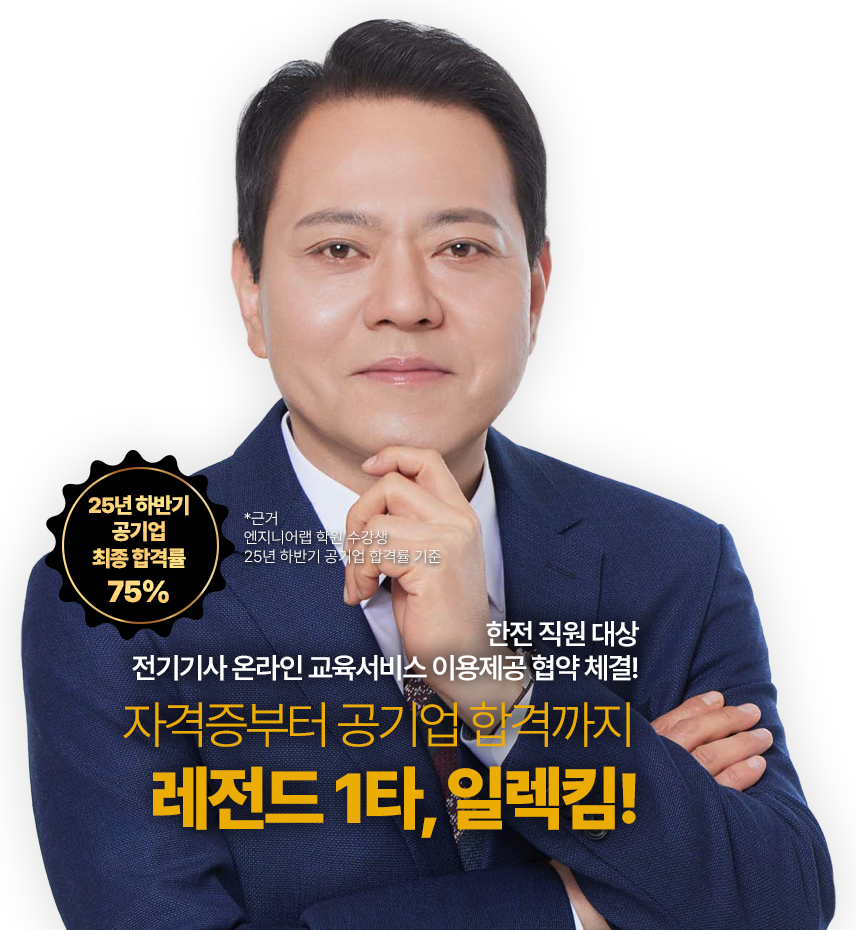
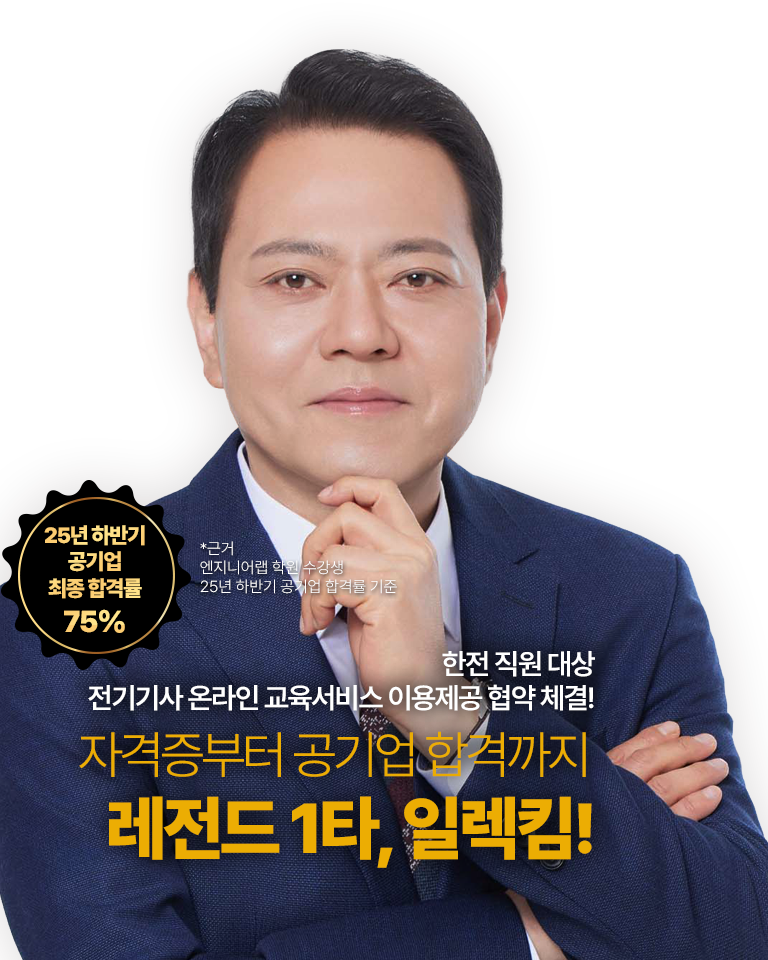
김상훈 교수 사진 크롭 여유 추가 (머리 위 여백 확보)
세로로 너무 타이트하게 잘려있다는 피드백 반영. 전체 높이(960px)를
그대로 활용해 머리 위 여백을 확보하고, 가로폭도 다른 교수님 사진과
비슷한 비율(0.8)로 조정.

diff --git a/professor-kim.html b/professor-kim.html
@@ -181,7 +181,7 @@ a { color: inherit; }
       </ul>
       <div class="prof-coupon-banner"><i class="ti ti-gift"></i> 파트너스 코드 <strong>e4941</strong> 입력 시 총 <strong>6만원</strong> 할인</div>
     </div>
-    <img class="prof-card-photo" src="img/prof-kim.png" alt="김상훈 교수" width="856" height="930">
+    <img class="prof-card-photo" src="img/prof-kim.png" alt="김상훈 교수" width="768" height="960">
     <div class="prof-card-btns">
       <a href="https://www.engineerlab.co.kr/ee/professor/professor_info_new.php?p_id=31" target="_blank" rel="noopener" class="prof-homebtn">교수홈 가기 <i class="ti ti-external-link"></i></a>
       <a href="pricing.html" class="prof-passbtn">패스 보기 <i class="ti ti-arrow-right"></i></a>
